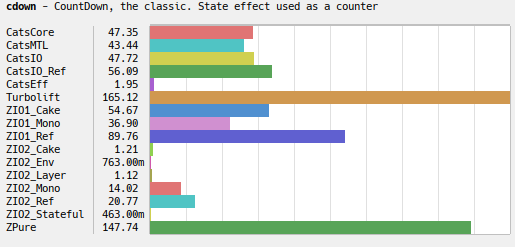
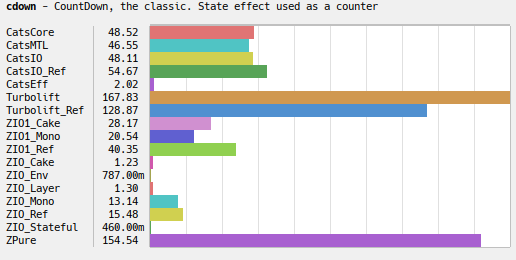
microsite

Changed region(s): [[0.0, 0.085, 0.9942, 0.9636], [0.0, 0.0, 0.7456, 0.0567]]

diff --git a/docs/src/main/mdoc/advanced/applicative.md b/docs/src/main/mdoc/advanced/applicative.md
@@ -18,11 +18,44 @@ The possibility of parallelism, depends on **implementation of handlers**.
 Parallelism is possible only when **all** handlers in the currently used effect stack,
 are implemented to permit parallelism.
 
-- If parallelization is possible, 2 fibers[^1] for `foo` and `bar` are implicitly forked.
+- If parallelization is possible, 2 fibers[^1] for `foo` and `bar` are **implicitly** forked.
 Upon joining, results of each contributing effect are composed, 
 in a similar manner as in composed Applicative Functor[^2].
 
 - If parallelization is not possible, `zipPar` fallbacks to sequential `zip`.
+
+This condition doesn't apply to fibers forked & joined **explicitly** (WIP).
+
+### Parallelizability of predefined handlers
+
+| Predefined effect | Predefined handler for this effect | Is the handler parallelizable? |
+|---|---|---|
+| `Reader`  | default  | ✅ |
+| `Writer`  | `local`  | ✅ |
+| `Writer`  | `shared` | ✅ |
+| `State`   | `local`  | ❌|
+| `State`   | `shared` | ✅ |
+| `Error`   | `first`  | ❌|
+| `Error`   | `all`    | ✅ |
+| `Choice`  | `first`  | ✅ |
+| `Choice`  | `all`    | ✅ |
+| `Random`  | `local`  | ✅ |
+| `Random`  | `shared` | ✅ |
+| `Console` | default  | ✅ |
+
+&nbsp;
+
+`State`'s `local` handler is conceptually similar to standard `State` monad.
+State updates are chained linearly.
+It is inherently impossible to fork-and-join such chain
+without having to make arbitrary choice about information loss.
+For this reason, this handler prohibits parallellism.
+See [Everything you didn't want to know about StateT](https://www.youtube.com/watch?v=KZIN9f9rI34&t=515s) ⚠**λ**[^3] video for more information.
+
+`Error`'s `first` handler short-circuits the computation on the first raised error.
+This handler prohibits parallellism,
+because the second computation can't be run,
+until it's determined that the first one completes without error.
 
 ### Example: Applicative vs. Monadic error
 
@@ -45,9 +78,8 @@ val result1 = program.handleWith(MyError.handlers.first).run
 val result2 = program.handleWith(MyError.handlers.all).run
 ```
 
-&nbsp;
-
 ---
 
 [^1]: Currently, fibers are not exposed to user. 🚧 **WIP** 🚧
 [^2]: Turbolift does not use `Applicative` typeclass. It's only mentioned as an analogy.
+[^3]: **Warning:** Haskell code ahead.

diff --git a/docs/src/main/mdoc/overview.md b/docs/src/main/mdoc/overview.md
@@ -16,10 +16,8 @@ title:  Overview
 ### Computation Usage
 
 A value of type `Computation[A, U]` describes a... computation,
-that requests a set of effects `U` that need to be handled,
+that requests a set of effects `U`, that need to be handled,
 before it can return a value of type `A`.
-
-
 
 A **type alias** `!![A, U]` is defined for convenient **infix syntax**.
 
@@ -30,6 +28,13 @@ The type-level set of effects is modelled by intersection types:
 | `Any`   | ∅         | `Computation[Int, Any]`    | `Int !! Any` |
 | `X`     | `X`       | `Computation[Int, X]`      | `Int !! X` |
 | `X & Y` | `X` ∪ `Y` | `Computation[Int, X & Y]`  | `Int !! (X & Y)` |
+
+&nbsp;
+
+Usually, Scala compiler can infer the set of effects used in the computation.
+We can see this in [code example](index.html#-lightweight-syntax) on the front page.
+The inferred type of `program` indicates,
+that it requests set of 3 effects: `MyReader`, `MyState` and `MyError`.
 
 &nbsp;
 
@@ -44,7 +49,7 @@ val myComputation1 = !!.unit
 val myComputation2 = !!.pure(42)
 ```
 
-For more information, see [Computation API](https://javadoc.io/static/io.github.marcinzh/turbolift-core_3/@VERSION@/turbolift/Computation.html)
+For more information, see [Computation API](https://javadoc.io/static/io.github.marcinzh/turbolift-core_3/@VERSION@/turbolift/Computation.html).
 
 ### Effect Usage
 
@@ -120,7 +125,7 @@ For example, this sequences 3 independent handlers:
 val myHandler123 = myHandler1 &&&! myHandler2 &&&! myHandler3
 ```
 
-For more operations, see [Handler API](https://javadoc.io/static/io.github.marcinzh/turbolift-core_3/@VERSION@/turbolift/Handler.html)
+For more operations, see [Handler API](https://javadoc.io/static/io.github.marcinzh/turbolift-core_3/@VERSION@/turbolift/Handler.html).
 
 
 
@@ -130,4 +135,4 @@ Those 2 types are used only during [Defining your own effects & handlers](custom
 
 ---
 
-[^1]: Slogan [© by Eric Torreborre](https://www.youtube.com/watch?v=KGJLeHhsZBo).
+[^1]: Slogan coined by [Eric Torreborre](https://www.youtube.com/watch?v=KGJLeHhsZBo).

diff --git a/docs/src/main/mdoc/custom/file_sys.md b/docs/src/main/mdoc/custom/file_sys.md
@@ -54,25 +54,26 @@ trait FileSystemEffect extends Effect[FileSystemSignature] with FileSystemSignat
 ```scala mdoc
 extension (fx: FileSystemEffect)
   def inMemoryHandler =
-    case object InternalStorage extends State[Map[String, String]]
+    // Internal state:
+    case object S extends State[Map[String, String]]
 
-    new fx.Proxy[InternalStorage.type] with FileSystemSignature:
+    new fx.Proxy[S.type] with FileSystemSignature:
       override def readFile(path: String) =
-        kk => InternalStorage.gets(_.get(path)).flatMap {
+        k => S.gets(_.get(path)).flatMap {
           case Some(contents) => !!.pure(contents)
-          case None => kk.escape(FileError.raise(FileErrorCause.NoSuchFile(path)))
+          case None => k.escape(FileError.raise(FileErrorCause.NoSuchFile(path)))
         }
 
       override def writeFile(path: String, contents: String) =
-        _ => InternalStorage.modify(_.updated(path, contents))
+        _ => S.modify(_.updated(path, contents))
 
     .toHandler
-    .provideWith(InternalStorage.handler(Map()).dropState)
+    .provideWith(S.handler(Map()).dropState)
 ```
 
 The `provideWith` method composes 2 dependent handlers,
 such that the latter handles dependency introduced by the former
-(`InternalStorage` effect in this case).
+(`S` effect in this case).
 
 ---
 

diff --git a/docs/src/main/mdoc/custom/index.md b/docs/src/main/mdoc/custom/index.md
@@ -20,7 +20,7 @@ trait GoogleSignature extends Signature:
 `!@![_, ThisEffect]` is somewhat similar to `F[_]` from Tagless Final.
 
 The main difference, is that in Turbolift this abstraction is **short lived**.
-It's local to `Signature`, and it vanishes in `Effect`.
+It's introduced in `Signature`, and it vanishes in its direct subtrait, `Effect`.
 
 Both `!@!` and `ThisEffect` are defined as abstract type members of `Signature`.
 In the next step, once we inherit our signature from an `Effect`, they become (automatically) concretized:
@@ -48,6 +48,19 @@ trait Google extends Effect[GoogleSignature] with GoogleSignature:
 ### ⚠ Notice:
 
 The signature is used here **twice**: first as the type parameter and second as the super trait.
+
+&nbsp;
+
+Hopefully, with future version of Scala compiler,
+it will be possible to automatically generate the boilerplate methods,
+by using annotation macro:
+
+```scala
+import turbolift.{Effect, effect}
+
+@effect trait Google extends Effect[GoogleSignature] with GoogleSignature
+  // No boilerplate methods needed.
+```
 
 
 ### 3. Define a handler for your effect

diff --git a/docs/src/main/mdoc/index.md b/docs/src/main/mdoc/index.md
@@ -11,14 +11,11 @@ title:  Algebraic Effects for Scala 3
 
 ## Highlights
 
-&nbsp;
-
 ### ⭐ Expressive power
 
 Turbolift supports constructs rarely found in other effect systems,
-or in new programming languages with native support for Algebraic Effects. See [Advanced Features](advanced/index.html).
-
-&nbsp;
+or in new programming languages with native support for Algebraic Effects.
+See [Advanced Features](advanced/index.html).
 
 ### ⭐ High performance
 
@@ -28,7 +25,7 @@ Excerpt from [Effect Zoo](https://github.com/marcinzh/effect-zoo) microbenchmark
 
 ![image](img/bench-sumh.png)
 
-&nbsp;
+More results [here](bench/index.html).
 
 ### ⭐ Lightweight syntax
 
@@ -62,15 +59,11 @@ val result = program
 
 ---
 
-&nbsp;
-
 ## Usage
 
 ```scala
 libraryDependencies += "io.github.marcinzh" %% "turbolift-core" % "@VERSION@"
 ```
-
-&nbsp;
 
 ## Credits
 

diff --git a/docs/src/main/mdoc/advanced/labelled.md b/docs/src/main/mdoc/advanced/labelled.md
@@ -5,7 +5,7 @@ title:  Labelled Effects
 
 # Labelled Effects
 
-Ability to label effects, is very rarely found feature in effect systems.
+Ability to label effects, is a very rarely found feature in effect systems.
 That's a shame, because without it, there is no true modularity.
 
 Related reading:

diff --git a/docs/src/main/mdoc/custom/flip.md b/docs/src/main/mdoc/custom/flip.md
@@ -65,6 +65,7 @@ extension (fx: FlipEffect)
           as <- k(true)
           bs <- k(false)
         yield as ++ bs
+
     .toHandler
 ```
 
@@ -81,6 +82,7 @@ extension (fx: FlipEffect)
           case None => k(false)
           case some => !!.pure(some)
         }
+
     .toHandler
 ```
 

diff --git a/docs/src/main/mdoc/bench/index.md b/docs/src/main/mdoc/bench/index.md
@@ -1,0 +1,14 @@
+---
+layout: docs
+title:  Microbenchmark results
+---
+
+Benchmarked with [Effect Zoo](https://github.com/marcinzh/effect-zoo).
+
+![image](../img/bench-cdown.png)
+
+![image](../img/bench-sumh.png)
+
+![image](../img/bench-mulst.png)
+
+![image](../img/bench-reint.png)
